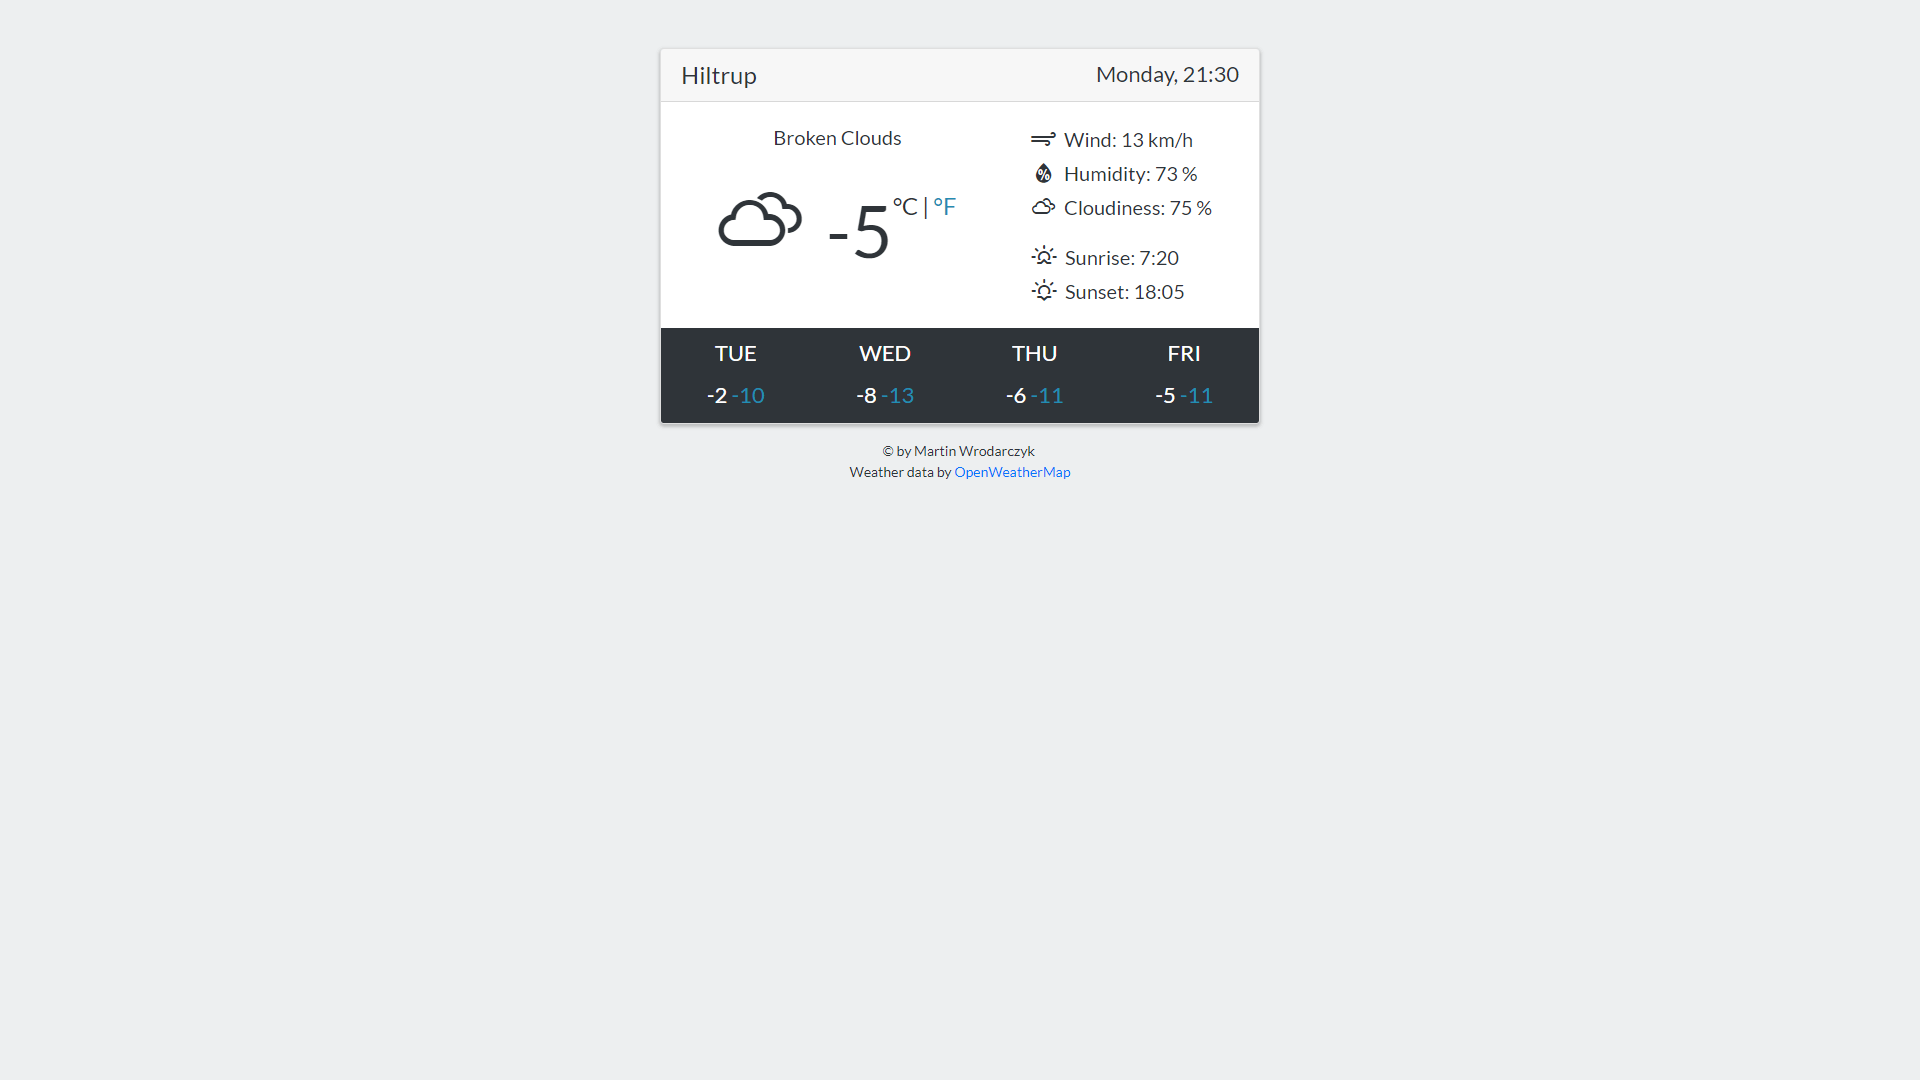
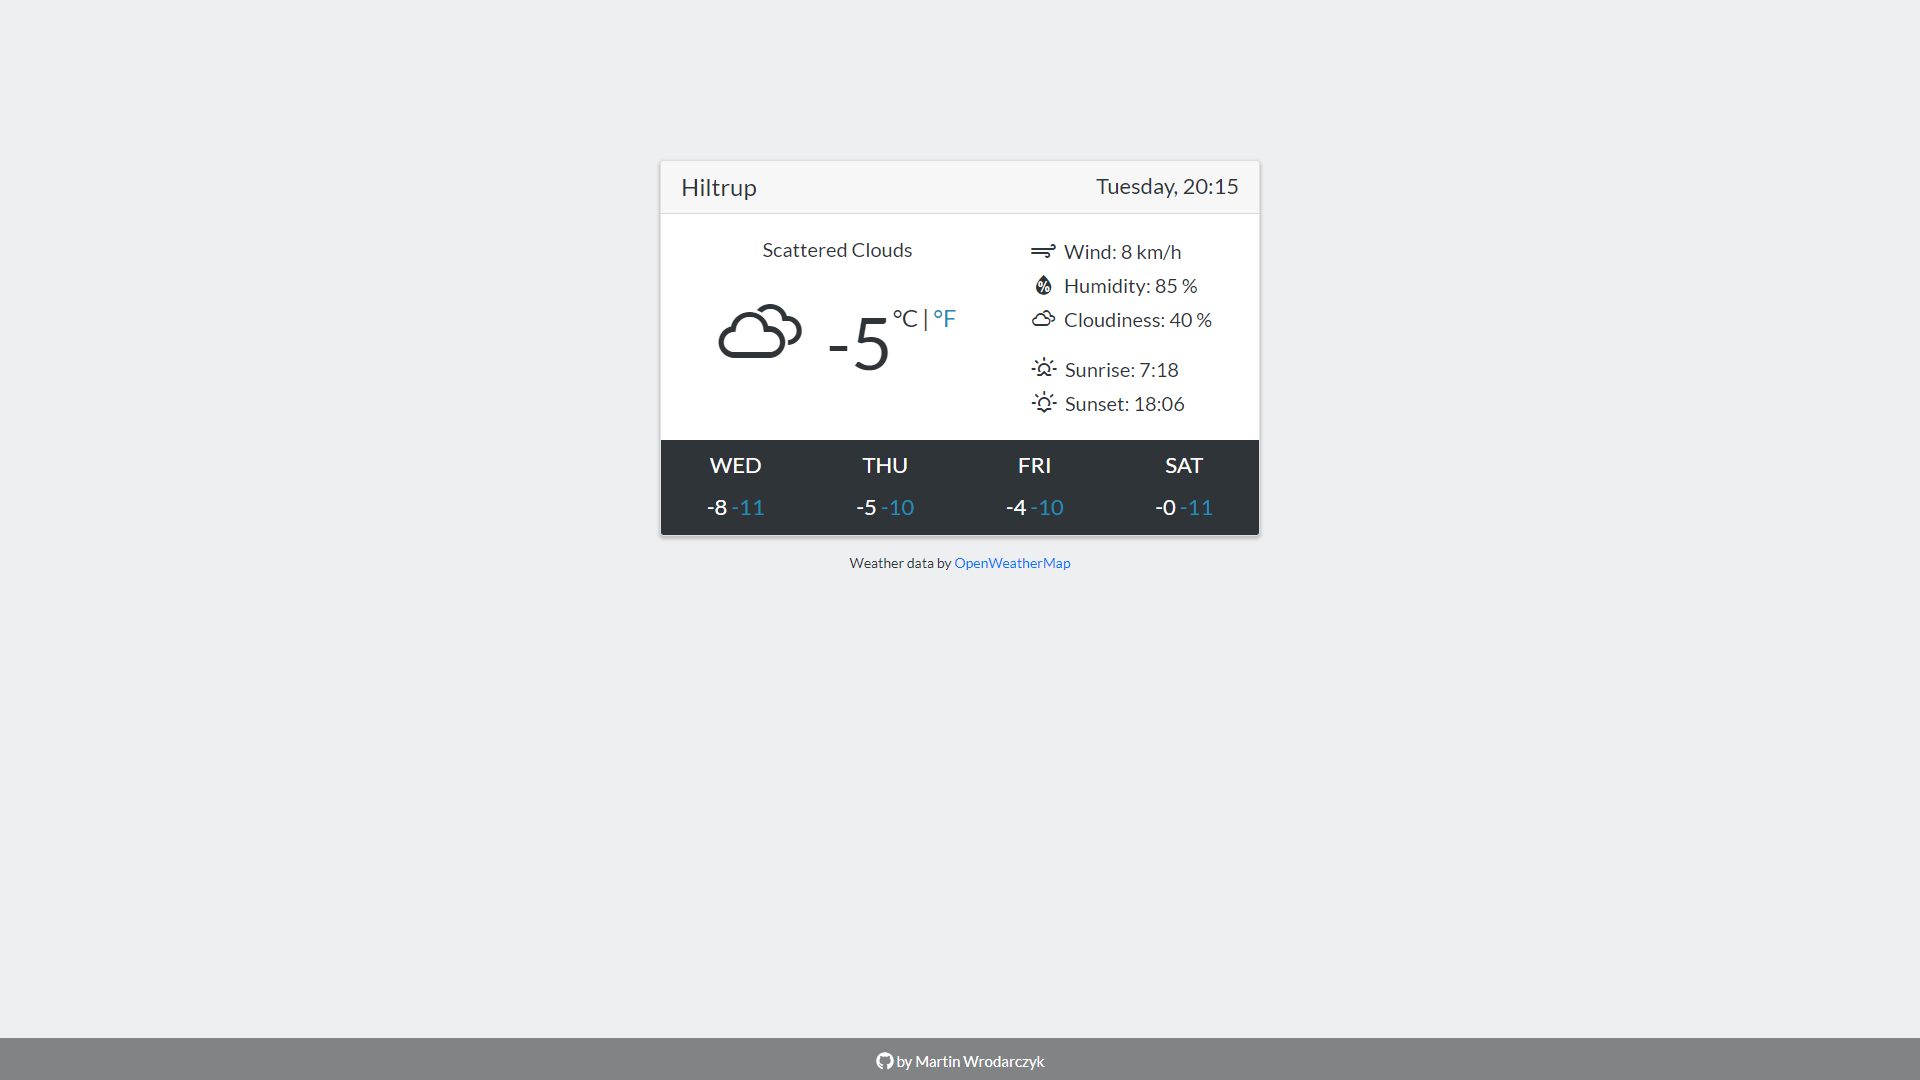
added footer to projects

diff --git a/projects/local-weather/index.html b/projects/local-weather/index.html
@@ -5,6 +5,7 @@
   <meta name="viewport" content="width=device-width, initial-scale=1, shrink-to-fit=no">
   <title>Local Weather</title>
 
+  <script defer src="https://use.fontawesome.com/releases/v5.0.7/js/all.js"></script>
   <link rel="stylesheet" href="https://maxcdn.bootstrapcdn.com/bootstrap/4.0.0/css/bootstrap.min.css" integrity="sha384-Gn5384xqQ1aoWXA+058RXPxPg6fy4IWvTNh0E263XmFcJlSAwiGgFAW/dAiS6JXm" crossorigin="anonymous">
   <link rel="stylesheet" href="css/weather-icons.min.css">
   <link rel="stylesheet" href="css/style.css">
@@ -13,34 +14,35 @@
 
 <body>
 
-  <div class="container">
-    <div class="card mx-auto mt-5 mb-3 main-card">
+  <div id="wrapper">
+    <div class="container" style="padding-top: 10rem">
+      <div class="card mx-auto mb-3 main-card">
 
-      <!-- HEADER -->
-      <h4 class="card-header">
-        <span id="city-now"></span>
-        <span id="time-now"></span>
-      </h4>
+        <!-- HEADER -->
+        <h4 class="card-header">
+          <span id="city-now"></span>
+          <span id="time-now"></span>
+        </h4>
 
-      <!-- TODAYS DATA -->
-      <div class="card-body">
-        <div class="row">
-          <div class="col-7 text-center">
-            <p id="desc-now"></p>
-            <div class="row py-24 justify-content-center">
-              <div class="col-auto pr-6">
-                <i id="icon-now" class="wi wi-day-sunny"></i>
-              </div>
-              <div class="col-auto pl-6">
-                <p id="temp-now"></p>
-                <p id="celsius-now" class="degree degree-active">°C</p>
-                <p class="degree mx-1">|</p>
-                <p id="fahrenheit-now" class="degree degree-inactive">°F</p>
+        <!-- TODAYS DATA -->
+        <div class="card-body">
+          <div class="row">
+            <div class="col-7 text-center">
+              <p id="desc-now"></p>
+              <div class="row py-24 justify-content-center">
+                <div class="col-auto pr-6">
+                  <i id="icon-now" class="wi wi-day-sunny"></i>
+                </div>
+                <div class="col-auto pl-6">
+                  <p id="temp-now"></p>
+                  <p id="celsius-now" class="degree degree-active">°C</p>
+                  <p class="degree mx-1">|</p>
+                  <p id="fahrenheit-now" class="degree degree-inactive">°F</p>
+                </div>
               </div>
             </div>
-          </div>
-          <div class="col-5 data-tables">
-            <table class="text-center">
+            <div class="col-5 data-tables">
+              <table class="text-center">
                 <tr>
                   <td><i class="wi wi-strong-wind p-6"></i></td>
                   <td class="text-left">Wind: <span id="wind-now"></span></td>
@@ -53,8 +55,8 @@
                   <td><i class="wi wi-cloudy p-6"></i></td>
                   <td class="text-left">Cloudiness: <span id="cloudiness-now"></span> %</td>
                 </tr>
-            </table>
-            <table style="text-align: center; display: block; margin-top: auto">
+              </table>
+              <table style="text-align: center; display: block; margin-top: auto">
                 <tr>
                   <td><i class="wi wi-sunrise p-6"></i></td>
                   <td class="text-left">Sunrise: <span id="sunrise-now"></span></td>
@@ -63,38 +65,46 @@
                   <td><i class="wi wi-sunset p-6"></i></td>
                   <td class="text-left">Sunset: <span id="sunset-now"></span></td>
                 </tr>
-            </table>
+              </table>
+            </div>
           </div>
         </div>
+
+        <!-- FORECAST -->
+        <div class="row card-img-bottom ml-0 text-center">
+          <div id="first-day" class="col forecast-col" style="border-bottom-left-radius: 3px;">
+            <h3>MON</h3>
+            <p><span>1°</span> <span class="blue-text">-1°</span></p>
+          </div>
+          <div id="second-day" class="col forecast-col">
+            <h3>TUE</h3>
+            <p><span>1°</span> <span class="blue-text">-1°</span></p>
+          </div>
+          <div id="third-day" class="col forecast-col">
+            <h3>WED</h3>
+            <p><span>1°</span> <span class="blue-text">-1°</span></p>
+          </div>
+          <div id="forth-day" class="col forecast-col" style="border-bottom-right-radius: 3px">
+            <h3>FRI</h3>
+            <p><span>1°</span> <span class="blue-text">-1°</span></p>
+          </div>
+        </div>
+
       </div>
 
-      <!-- FORECAST -->
-      <div class="row card-img-bottom ml-0 text-center">
-        <div id="first-day" class="col forecast-col" style="border-bottom-left-radius: 3px;">
-          <h3>MON</h3>
-          <p><span>1°</span> <span class="blue-text">-1°</span></p>
-        </div>
-        <div id="second-day" class="col forecast-col">
-          <h3>TUE</h3>
-          <p><span>1°</span> <span class="blue-text">-1°</span></p>
-        </div>
-        <div id="third-day" class="col forecast-col">
-          <h3>WED</h3>
-          <p><span>1°</span> <span class="blue-text">-1°</span></p>
-        </div>
-        <div id="forth-day" class="col forecast-col" style="border-bottom-right-radius: 3px">
-          <h3>FRI</h3>
-          <p><span>1°</span> <span class="blue-text">-1°</span></p>
-        </div>
+      <!-- FOOTER -->
+      <div class="text-center">
+        <p style="font-size: 14px">Weather data by <a href="https://openweathermap.org">OpenWeatherMap</a></p>
       </div>
-
     </div>
-
-    <!-- FOOTER -->
-    <footer class="text-center">
-      <p style="font-size: 14px">&copy; by Martin Wrodarczyk <br> Weather data by <a href="https://openweathermap.org">OpenWeatherMap</a></p>
-    </footer>
   </div>
+      <footer>
+        <a href="https://github.com/mwrod/" target="_blank">
+          <i class="fab fa-github i-big"></i>
+          <span>by Martin Wrodarczyk</span>
+        </a>
+      </footer>
+
 
   <!-- Bootstrap -->
   <script src="https://code.jquery.com/jquery-3.3.1.js" integrity="sha256-2Kok7MbOyxpgUVvAk/HJ2jigOSYS2auK4Pfzbm7uH60=" crossorigin="anonymous"></script>

diff --git a/projects/random-quote-machine/index.html b/projects/random-quote-machine/index.html
@@ -5,25 +5,34 @@
   <meta charset="UTF-8">
   <title>Random Quote Machine</title>
 
-  <script defer src="https://use.fontawesome.com/releases/v5.0.6/js/all.js"></script>
+  <script defer src="https://use.fontawesome.com/releases/v5.0.7/js/all.js"></script>
   <link rel="stylesheet" href="https://maxcdn.bootstrapcdn.com/bootstrap/4.0.0/css/bootstrap.min.css" integrity="sha384-Gn5384xqQ1aoWXA+058RXPxPg6fy4IWvTNh0E263XmFcJlSAwiGgFAW/dAiS6JXm" crossorigin="anonymous">
   <link rel="stylesheet" href="css/style.css">
 </head>
 
 <body>
-  <div class="container text-center" style="display: flex;">
-    <div class="mx-auto" style="display: flex;">
-      <span class="my-auto" id="leftArrow"> <i class="fas fa-angle-left fa-fw arrow"></i></span>
+  <div id="wrapper">
+    <div class="container text-center" style="display: flex;">
+      <div class="mx-auto" style="display: flex;">
+        <span class="my-auto" id="leftArrow"> <i class="fas fa-angle-left fa-fw arrow"></i></span>
         <div id="main_content" class="card mx-3 p-5">
           <blockquote class="blockquote">
             <p id="message"></p>
-            <footer id="author" class="blockquote-footer"></footer>
+            <div id="author" class="blockquote-footer"></div>
           </blockquote>
           <a id="tweet-button"><i class="fab fa-twitter-square float-left"></i></a>
         </div>
-      <br>
-      <span class="my-auto" id="rightArrow"> <i class="fas fa-angle-right fa-fw arrow"></i></span>
+        <br>
+        <span class="my-auto" id="rightArrow"> <i class="fas fa-angle-right fa-fw arrow"></i></span>
+      </div>
     </div>
+
+    <footer>
+      <a href="https://github.com/mwrod/" target="_blank">
+        <i class="fab fa-github i-big"></i>
+        <span>by Martin Wrodarczyk</span>
+      </a>
+    </footer>
   </div>
 
   <!-- Bootstrap 4 -->

diff --git a/projects/random-quote-machine/css/style.css b/projects/random-quote-machine/css/style.css
@@ -11,6 +11,35 @@ body {
   transition: background 1s;
 }
 
+/* Footer */
+html, body {
+  height: 100%;
+} #wrapper{
+  min-height:100%;
+  position:relative;
+} footer {
+  width: 100%;
+  height: 42px;
+  position: absolute;
+  bottom: 0;
+  text-align: center;
+  background-color: rgba(0, 0, 0, 0.45);
+  font-family: Lato, sans-serif;
+  font-size: 15px;
+} footer a {
+  line-height: 42px;
+  color: white;
+  text-decoration: none;
+} footer a:focus, a:hover, a:visited {
+  text-decoration: none;
+  color: white;
+} footer span {
+  vertical-align: middle;
+} .i-big {
+  vertical-align: middle;
+  font-size: 18px;
+}
+
 #main_content {
   color: var(--main-color);
   display: inline-block;

diff --git a/projects/local-weather/css/style.css b/projects/local-weather/css/style.css
@@ -14,6 +14,35 @@ p {
   font-size: 22px;
 }
 
+/* Footer */
+html, body {
+  height: 100%;
+} #wrapper{
+  min-height:100%;
+  position:relative;
+} footer {
+  width: 100%;
+  height: 42px;
+  position: absolute;
+  bottom: 0;
+  text-align: center;
+  background-color: rgba(0, 0, 0, 0.45);
+  font-family: Lato, sans-serif;
+  font-size: 15px;
+} footer a {
+  line-height: 42px;
+  color: white;
+  text-decoration: none;
+} footer a:focus, footer a:hover, footer a:visited {
+  text-decoration: none;
+  color: white;
+} footer span {
+  vertical-align: middle;
+} .i-big {
+  vertical-align: middle;
+  font-size: 18px;
+}
+
 /* Header */
 #time-now {
   float: right;

diff --git a/projects/random-quote-machine/js/index.js b/projects/random-quote-machine/js/index.js
@@ -14,7 +14,8 @@ function getNewQuote(id, success){
       setQuote(id);
   })
   .done(function(){ if(success !== undefined) success(); })
-  .fail(function(){ alert("Could not retrieve a new quote. Please check your internet connection.") });
+  .fail(function(){ //alert("Could not retrieve a new quote. Please check your internet connection.")
+});
 }
 
 function setQuote(id){
